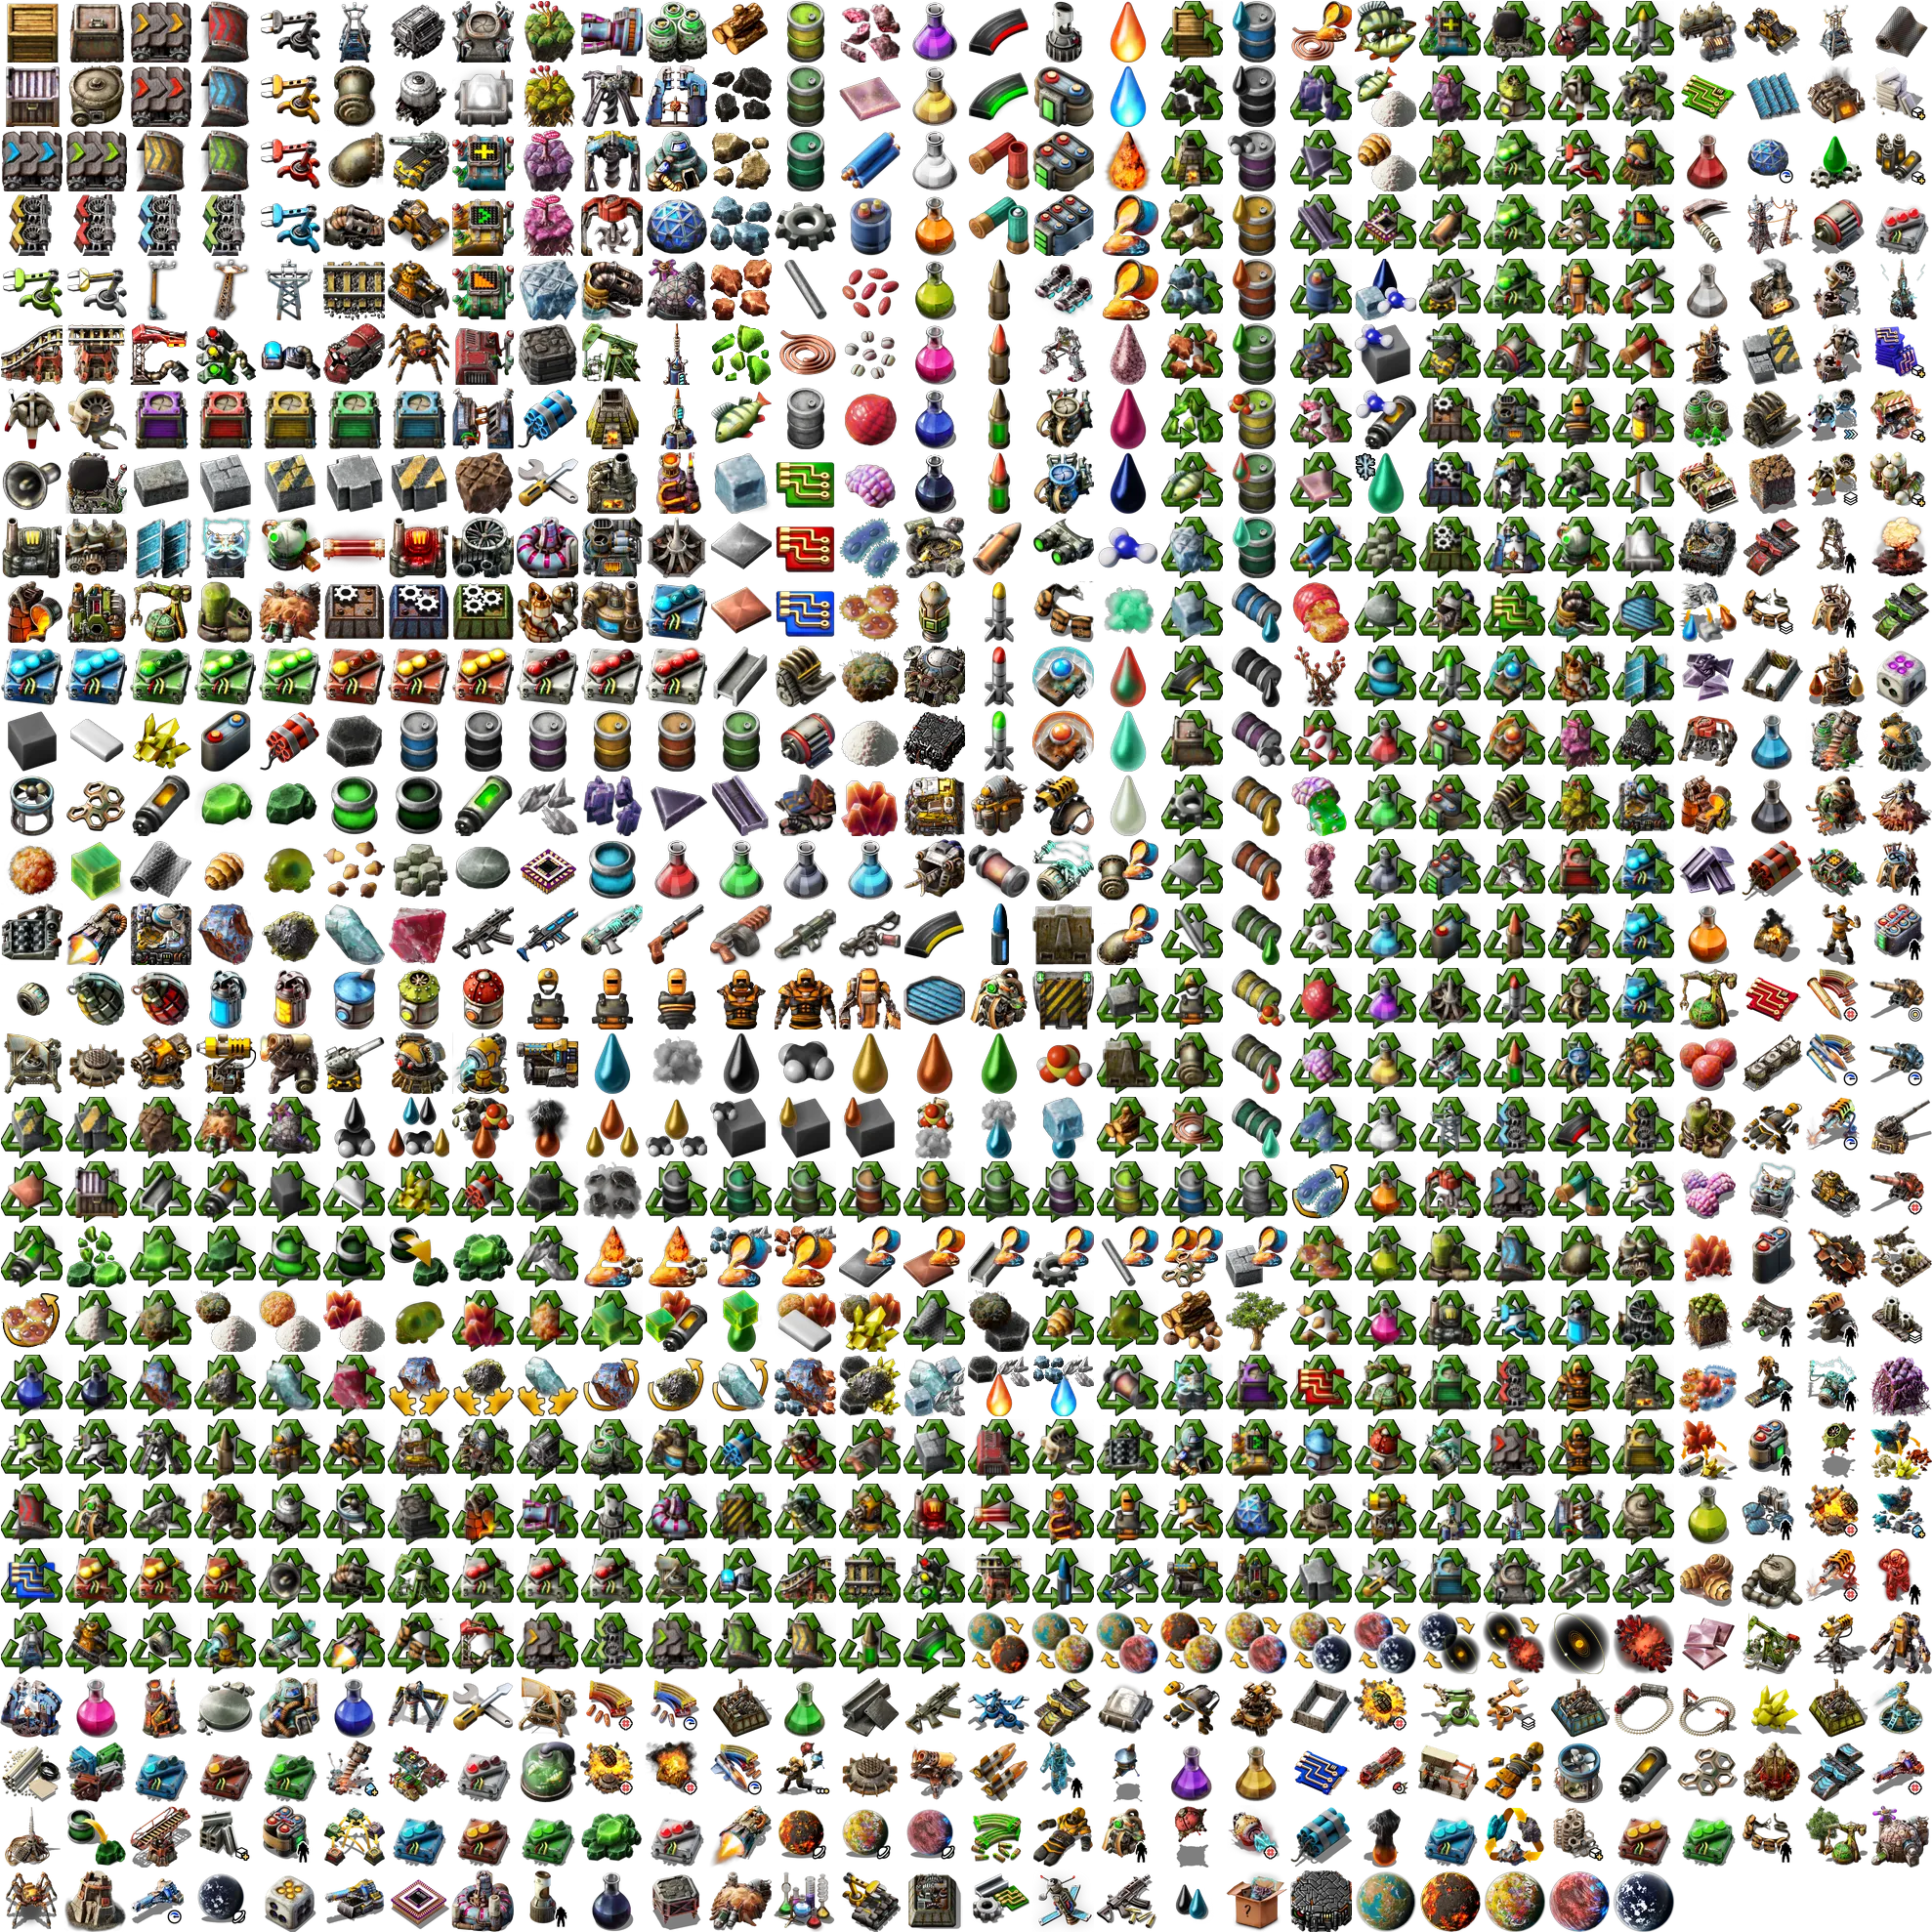
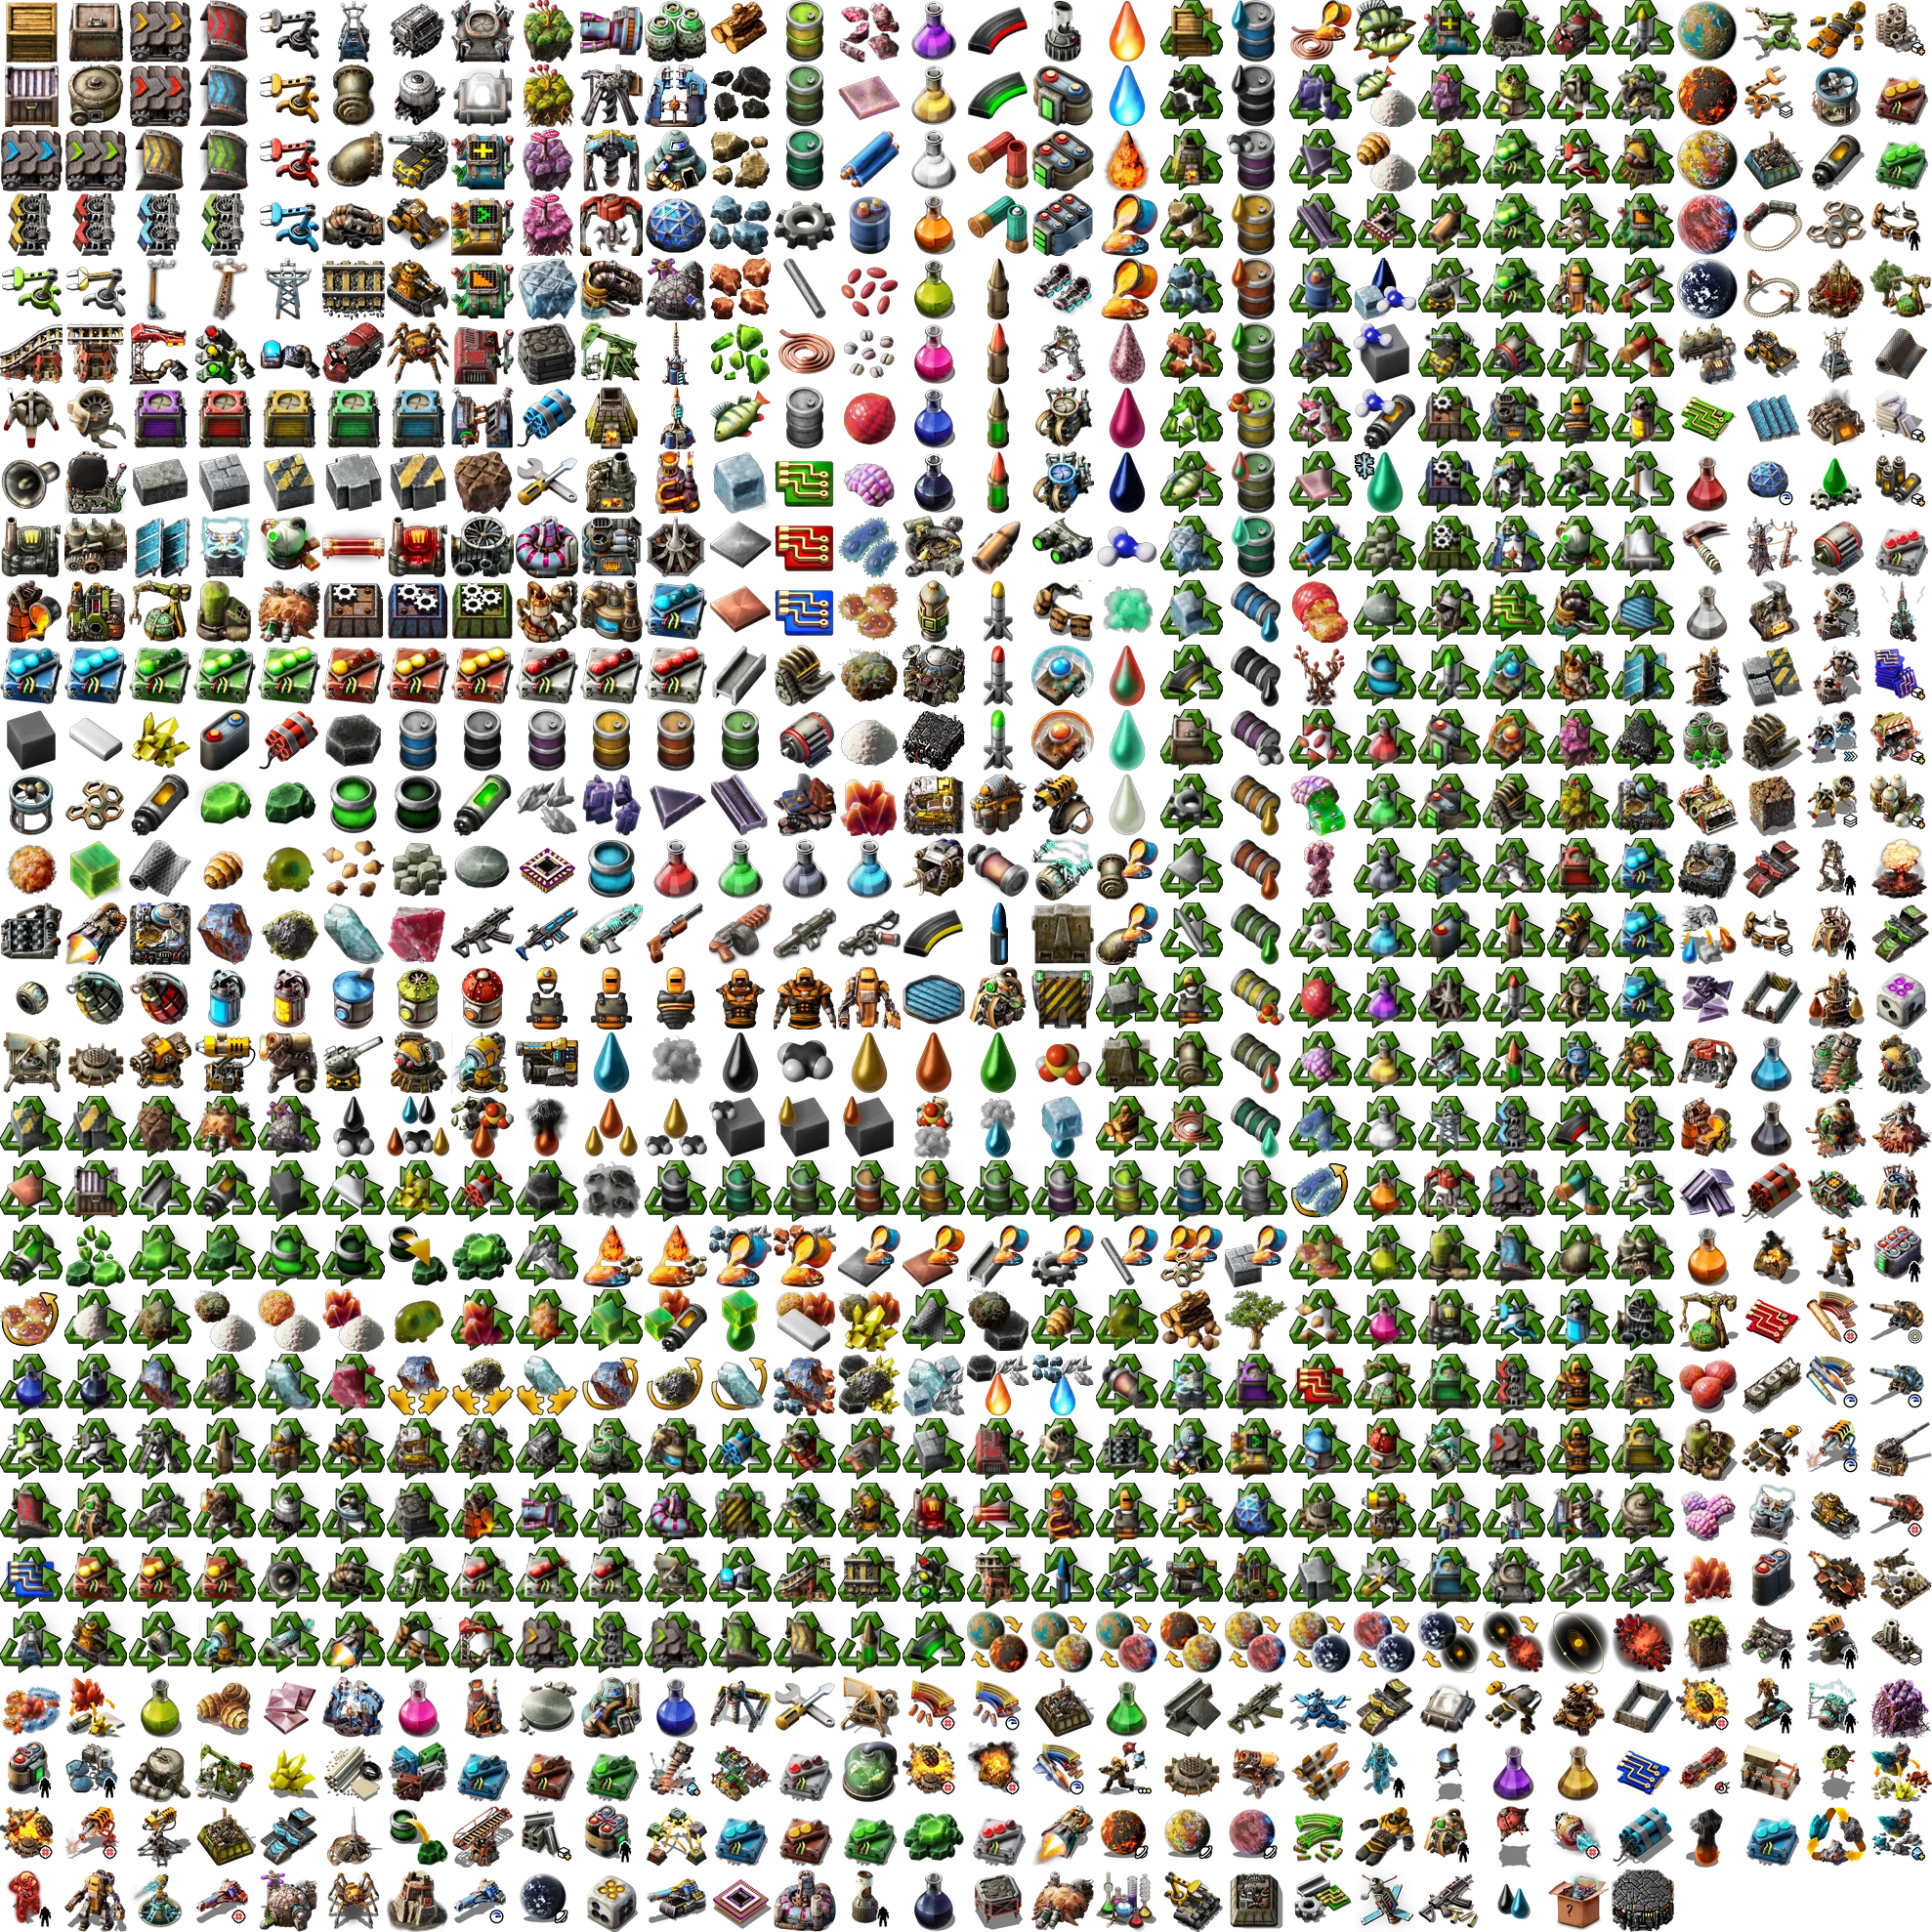
Deploying to main from @ factoriolab/factoriolab@de772e88e12348a8264f73298839fc40074997da 🚀

diff --git a/404.html b/404.html
@@ -47,5 +47,5 @@ desired objectives.">
       </div>
     </lab-root>
     <noscript>Please enable JavaScript to continue using this application.</noscript>
-  <link rel="modulepreload" href="chunk-TV7JAB3Q.js"><link rel="modulepreload" href="chunk-N4Q57K6W.js"><link rel="modulepreload" href="chunk-457FILPD.js"><link rel="modulepreload" href="chunk-TMMREHTE.js"><link rel="modulepreload" href="chunk-IJKDC6DW.js"><link rel="modulepreload" href="chunk-BNZ4637D.js"><link rel="modulepreload" href="chunk-DRPQBAXV.js"><link rel="modulepreload" href="chunk-YZB4AYUM.js"><link rel="modulepreload" href="chunk-BRDI5D3T.js"><link rel="modulepreload" href="chunk-3VNXUMUX.js"><script src="polyfills-FFHMD2TL.js" type="module"></script><script src="main-KAAPFNB5.js" type="module"></script></body>
+  <link rel="modulepreload" href="chunk-TV7JAB3Q.js"><link rel="modulepreload" href="chunk-N4Q57K6W.js"><link rel="modulepreload" href="chunk-457FILPD.js"><link rel="modulepreload" href="chunk-TMMREHTE.js"><link rel="modulepreload" href="chunk-IJKDC6DW.js"><link rel="modulepreload" href="chunk-BNZ4637D.js"><link rel="modulepreload" href="chunk-DRPQBAXV.js"><link rel="modulepreload" href="chunk-YZB4AYUM.js"><link rel="modulepreload" href="chunk-BRDI5D3T.js"><link rel="modulepreload" href="chunk-3VNXUMUX.js"><script src="polyfills-FFHMD2TL.js" type="module"></script><script src="main-CBBW6UP3.js" type="module"></script></body>
 </html>

diff --git a/index.html b/index.html
@@ -47,5 +47,5 @@ desired objectives.">
       </div>
     </lab-root>
     <noscript>Please enable JavaScript to continue using this application.</noscript>
-  <link rel="modulepreload" href="chunk-TV7JAB3Q.js"><link rel="modulepreload" href="chunk-N4Q57K6W.js"><link rel="modulepreload" href="chunk-457FILPD.js"><link rel="modulepreload" href="chunk-TMMREHTE.js"><link rel="modulepreload" href="chunk-IJKDC6DW.js"><link rel="modulepreload" href="chunk-BNZ4637D.js"><link rel="modulepreload" href="chunk-DRPQBAXV.js"><link rel="modulepreload" href="chunk-YZB4AYUM.js"><link rel="modulepreload" href="chunk-BRDI5D3T.js"><link rel="modulepreload" href="chunk-3VNXUMUX.js"><script src="polyfills-FFHMD2TL.js" type="module"></script><script src="main-KAAPFNB5.js" type="module"></script></body>
+  <link rel="modulepreload" href="chunk-TV7JAB3Q.js"><link rel="modulepreload" href="chunk-N4Q57K6W.js"><link rel="modulepreload" href="chunk-457FILPD.js"><link rel="modulepreload" href="chunk-TMMREHTE.js"><link rel="modulepreload" href="chunk-IJKDC6DW.js"><link rel="modulepreload" href="chunk-BNZ4637D.js"><link rel="modulepreload" href="chunk-DRPQBAXV.js"><link rel="modulepreload" href="chunk-YZB4AYUM.js"><link rel="modulepreload" href="chunk-BRDI5D3T.js"><link rel="modulepreload" href="chunk-3VNXUMUX.js"><script src="polyfills-FFHMD2TL.js" type="module"></script><script src="main-CBBW6UP3.js" type="module"></script></body>
 </html>